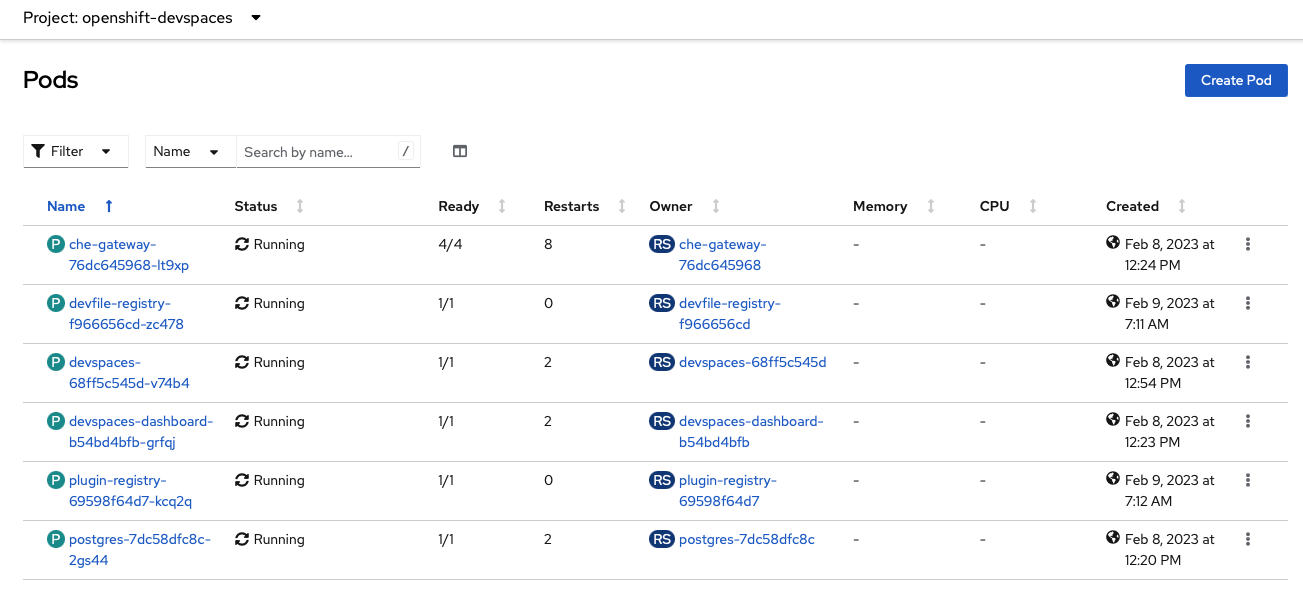
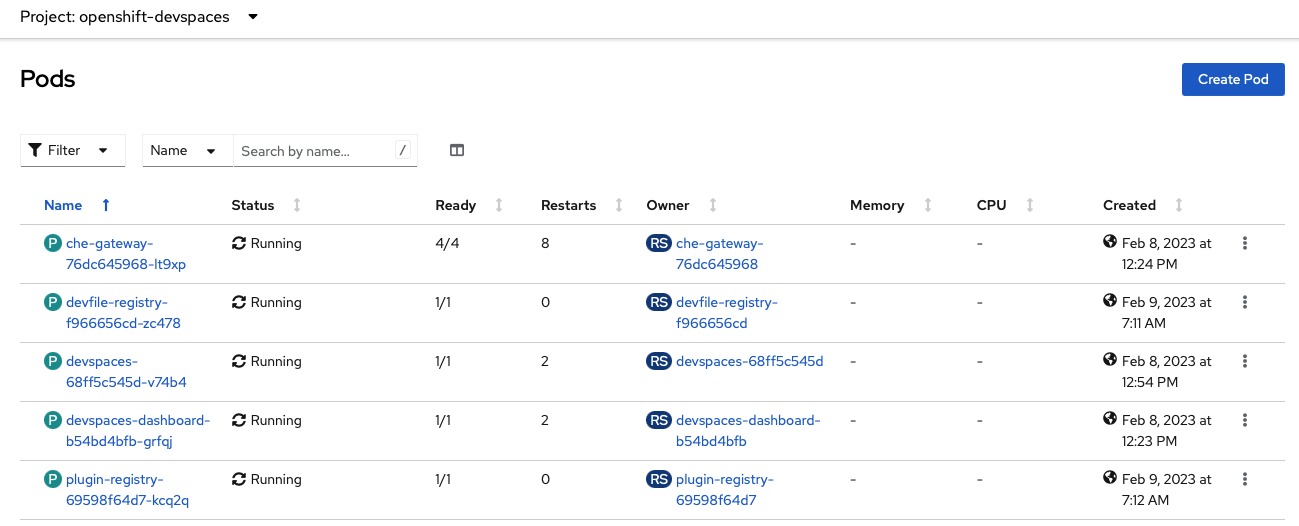
update

diff --git a/InstallCRC.md b/InstallCRC.md
@@ -131,23 +131,17 @@
        cheServer:
          debug: false
          logLevel: INFO
-       database:
-         credentialsSecretName: postgres-credentials
-         externalDb: false
-         postgresDb: dbche
-         postgresHostName: postgres
-         postgresPort: '5432'
-         pvc:
-           claimSize: 1Gi
        metrics:
          enable: true
      containerRegistry: {}
      devEnvironments:
+       startTimeoutSeconds: 300
        secondsOfRunBeforeIdling: -1
+       maxNumberOfWorkspacesPerUser: -1
        containerBuildConfiguration:
          openShiftSecurityContextConstraint: container-build
        disableContainerBuildCapabilities: false
-       defaultEditor: che-incubator/che-code/insiders
+       defaultEditor: che-incubator/che-code/latest
        defaultNamespace:
          autoProvision: true
          template: <username>-devspaces
